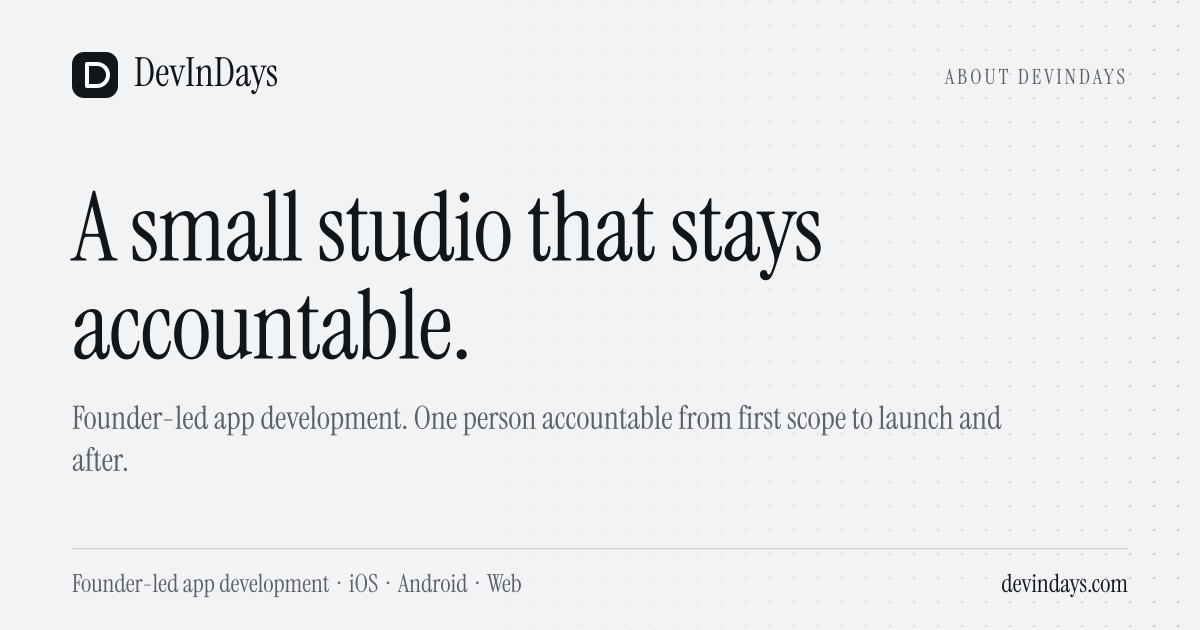
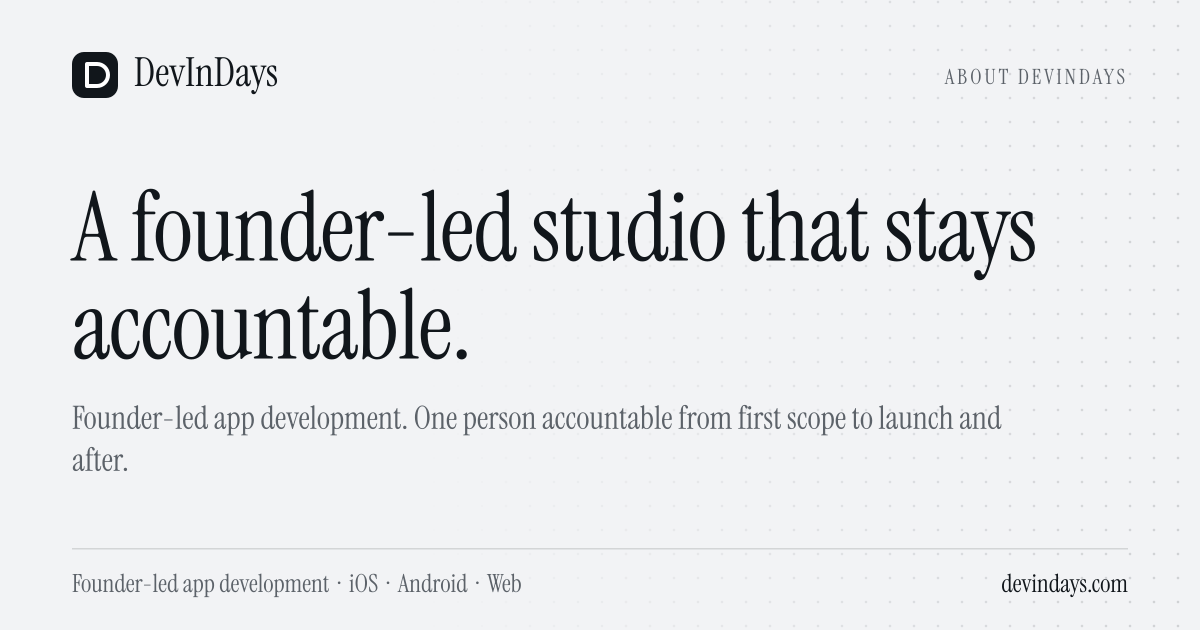
Founder-led wording, hardest builds first, FAQ on process and continuity
- Replace "small studio / small team" with founder-led and dedicated team
- Work picker leads with Dater, Invigil and Billing Baba; Invigil added
- Rewrite enterprise and regulated-work FAQ answers
- Add FAQs: project from first call to launch; team member unavailable
- Refresh About share image and llms.txt

Changed region(s): [[0.0925, 0.3016, 0.8633, 0.4524]]

diff --git a/src/content/faq-page-sections.ts b/src/content/faq-page-sections.ts
@@ -34,7 +34,7 @@ export const faqPageSections = [
         id: "what-kind-of-projects-are-not-a-good-fit-for-devindays",
         question: "What kind of projects are not a good fit for DevInDays?",
         answer:
-          "We're honest about this: large enterprise software for organizations with their own internal engineering teams, and highly regulated products that need compliance work we haven't done before, aren't a good fit for us. We'd rather tell you that upfront than take on something we can't do justice to.",
+          "Work that is mostly procurement, vendor onboarding and integration programs inside a very large organization, and products that need a specific regulatory certification we haven't delivered before, are better served by a different kind of team, and we'll tell you that on the first call. Size on its own isn't the issue: we've built large internal tools and compliance-sensitive systems for established organizations. What matters is whether we can do your project properly.",
       },
       {
         id: "does-devindays-build-multi-sided-platforms-and-marketplaces",
@@ -70,7 +70,7 @@ export const faqPageSections = [
         id: "what-does-devindays-not-specialize-in",
         question: "What does DevInDays not specialize in?",
         answer:
-          "We're not set up to be an enterprise systems integrator for large organizations with heavy procurement and compliance requirements. We're best suited to founders and businesses who want a small, accountable team to take a defined product, from an idea or an existing codebase, through to launch.",
+          "We aren't a systems integrator that runs multi-year procurement programs. We're best suited to founders and businesses who want a dedicated, accountable team to take a defined product, from an idea or an existing codebase, through to launch and keep improving it afterwards.",
       },
       {
         id: "does-devindays-guarantee-that-my-app-will-succeed",
@@ -214,7 +214,19 @@ export const faqPageSections = [
         id: "who-actually-works-on-my-project",
         question: "Who actually works on my project?",
         answer:
-          "Our founder is personally involved in the architecture and scope decisions on every project we take on, and a small, dedicated team of engineers handles the actual build.",
+          "Our founder is personally involved in the architecture and scope decisions on every project we take on, and a dedicated team of engineers handles the actual build.",
+      },
+      {
+        id: "what-does-a-project-look-like-from-first-call-to-launch",
+        question: "What does a project look like from the first call to launch?",
+        answer:
+          "It starts with a 30-minute call with our founder. If it's a good fit, you get a scoped feature list, a realistic timeline and a fixed quote. Before work begins, you sign a contract covering scope, payment terms and IP transfer, with payment split 30% to start, 40% at a build milestone and 30% on delivery. During the build you get a working build at least weekly and a weekly check-in, we tell you early if anything threatens the schedule, and any change to scope is priced and agreed before we start on it. We then submit to the App Store and Google Play, and your post-launch support period begins.",
+      },
+      {
+        id: "what-happens-if-someone-on-the-team-is-unavailable-or-leaves-mid-project",
+        question: "What happens if someone on the team is unavailable or leaves mid-project?",
+        answer:
+          "Your project doesn't depend on a single person. Our founder is across the architecture and scope decisions on every project, you see working builds at least weekly, and the product comes with documentation and the full source code, so another engineer on the team can pick up where someone left off. If anything puts the schedule at risk, we tell you early instead of working around it quietly.",
       },
       {
         id: "can-devindays-work-alongside-our-existing-team",

diff --git a/src/content/work-section.ts b/src/content/work-section.ts
@@ -26,6 +26,38 @@ export const workSectionContent = {
       materialPath: "src/content/material/case-studies/devindays-case-study-dater.md",
     },
     {
+      id: "invigil",
+      category: "CIVIC MEDIA",
+      title: "InViGiL",
+      body:
+        "Six products on one backend: news, social, live TV, an AI newsroom and an investigation portal. Shipped across mobile, TV and web in about three months.",
+      points: [
+        "Web + Mobile + TV",
+        "FastAPI Backend",
+        "AI Layer",
+      ],
+      ctaLabel: "View case study",
+      ctaHref: "/case-studies/invigil",
+      slug: "invigil",
+      materialPath: "src/content/material/case-studies/devindays-case-study-invigil.md",
+    },
+    {
+      id: "billing-baba",
+      category: "BILLING PLATFORM",
+      title: "Billing Baba",
+      body:
+        "A billing platform rebuilt from zero after the first build never got finished. One Flutter codebase, running natively on Android, iOS, macOS and Windows.",
+      points: [
+        "Flutter",
+        "iOS + Android",
+        "macOS + Windows",
+      ],
+      ctaLabel: "View case study",
+      ctaHref: "/case-studies/billing-baba",
+      slug: "billing-baba",
+      materialPath: "src/content/material/case-studies/devindays-case-study-billingbaba.md",
+    },
+    {
       id: "entry-ticket",
       category: "EVENT TICKETING",
       title: "EntryTicket",
@@ -57,38 +89,6 @@ export const workSectionContent = {
       slug: "turbosupply",
       materialPath: "src/content/material/case-studies/devindays-case-study-turbosupply.md",
     },
-    {
-      id: "billing-baba",
-      category: "BILLING PLATFORM",
-      title: "Billing Baba",
-      body:
-        "A billing platform rebuilt from zero after the first build never got finished. One Flutter codebase, running natively on Android, iOS, macOS and Windows.",
-      points: [
-        "Flutter",
-        "iOS + Android",
-        "macOS + Windows",
-      ],
-      ctaLabel: "View case study",
-      ctaHref: "/case-studies/billing-baba",
-      slug: "billing-baba",
-      materialPath: "src/content/material/case-studies/devindays-case-study-billingbaba.md",
-    },
-    {
-      id: "invigil",
-      category: "CIVIC MEDIA",
-      title: "InViGiL",
-      body:
-        "Six products on one backend: news, social, live TV, an AI newsroom and an investigation portal. Shipped across mobile, TV and web in about three months.",
-      points: [
-        "Web + Mobile + TV",
-        "FastAPI Backend",
-        "AI Layer",
-      ],
-      ctaLabel: "View case study",
-      ctaHref: "/case-studies/invigil",
-      slug: "invigil",
-      materialPath: "src/content/material/case-studies/devindays-case-study-invigil.md",
-    },
   ],
   marqueeAriaLabel: "Case study highlights",
   marqueeLogos: {
@@ -117,9 +117,10 @@ export const workSectionContent = {
   },
   marqueeTiles: [
     { id: "dater", logoKey: "dater", caseStudyId: "dater" },
+    { id: "invigil", logoKey: "invigil", caseStudyId: "invigil" },
+    { id: "billing-baba", logoKey: "billingBaba", caseStudyId: "billing-baba" },
     { id: "entry-ticket", logoKey: "entryTicket", caseStudyId: "entry-ticket" },
     { id: "turbo-supply", logoKey: "turboSupply", caseStudyId: "turbo-supply" },
-    { id: "billing-baba", logoKey: "billingBaba", caseStudyId: "billing-baba" },
   ],
 } as const satisfies WorkSectionContent;
 

diff --git a/src/content/about-page.ts b/src/content/about-page.ts
@@ -4,13 +4,13 @@ export const aboutPageContent = {
   meta: {
     title: "About: A Founder-Led App Development Studio",
     description:
-      "DevInDays is a small, founder-led software studio. One person accountable from scope to launch, a dedicated team building your app, and you own all the code.",
+      "DevInDays is a founder-led software studio. One person accountable from scope to launch, a dedicated team building your app, and you own all the code.",
     path: "/about",
     ogImage: "/og/about.png",
   },
   hero: {
     eyebrow: "About",
-    headline: "A small studio that stays accountable.",
+    headline: "A founder-led studio that stays accountable.",
     lede: "DevInDays builds mobile and web products for founders and businesses. The person on your first call is the person accountable for the build, from scope to launch and after.",
   },
   letter: {
@@ -19,7 +19,7 @@ export const aboutPageContent = {
     portraitFallbackCaption: "Raghav, founder",
     paragraphs: [
       "I stay personally involved in every project we take on, from architecture and product decisions to scope and the details that matter before launch.",
-      "I’m supported by a small team of engineers I trust, with experience building marketplaces, delivery platforms, matchmaking apps, and other real-world products.",
+      "I’m supported by a dedicated team of engineers I trust, with experience building marketplaces, delivery platforms, matchmaking apps, and other real-world products.",
       "You work directly with the person accountable for your product, backed by a team that knows how to build and ship it.",
     ],
   },

diff --git a/src/content/founder-section.ts b/src/content/founder-section.ts
@@ -5,7 +5,7 @@ export const founderSectionContent = {
   intro: "Hey, I’m Raghav, founder of DevInDays.",
   bodyParagraphs: [
     "I stay personally involved in every project we take on, from architecture and product decisions to scope and the details that matter before launch.",
-    "I’m supported by a small team of engineers I trust, with experience building marketplaces, delivery platforms, matchmaking apps, and other real-world products.",
+    "I’m supported by a dedicated team of engineers I trust, with experience building marketplaces, delivery platforms, matchmaking apps, and other real-world products.",
     "You work directly with the person accountable for your product, backed by a team that knows how to build and ship it.",
   ],
   signoff: {
